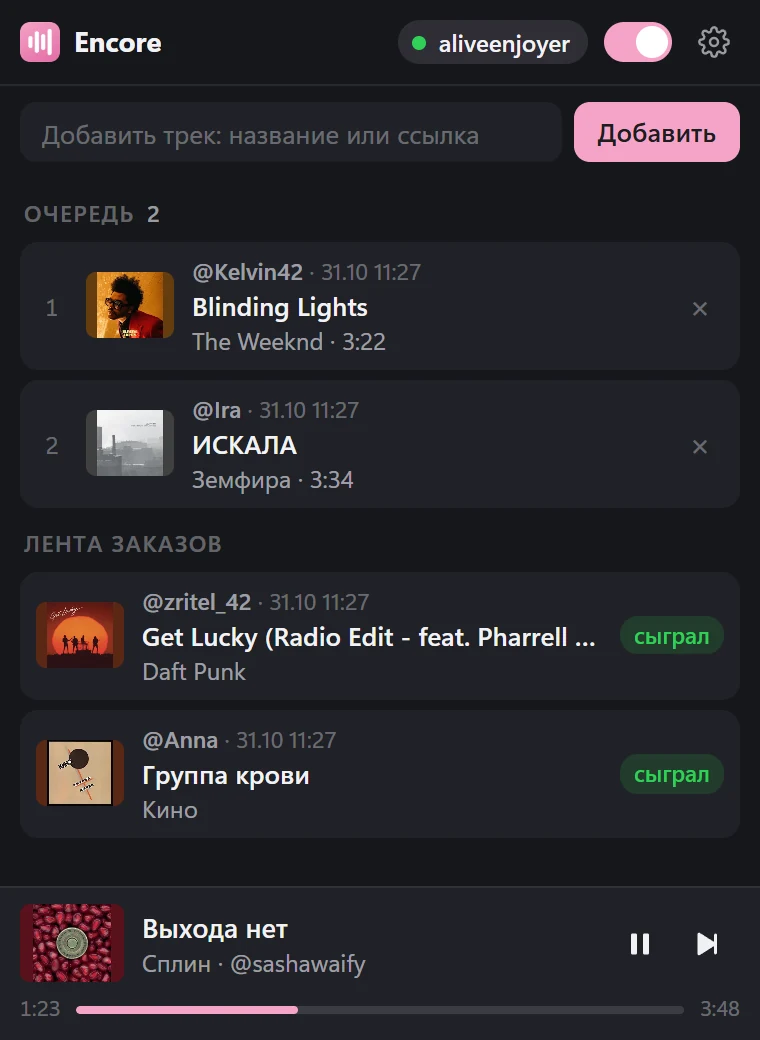
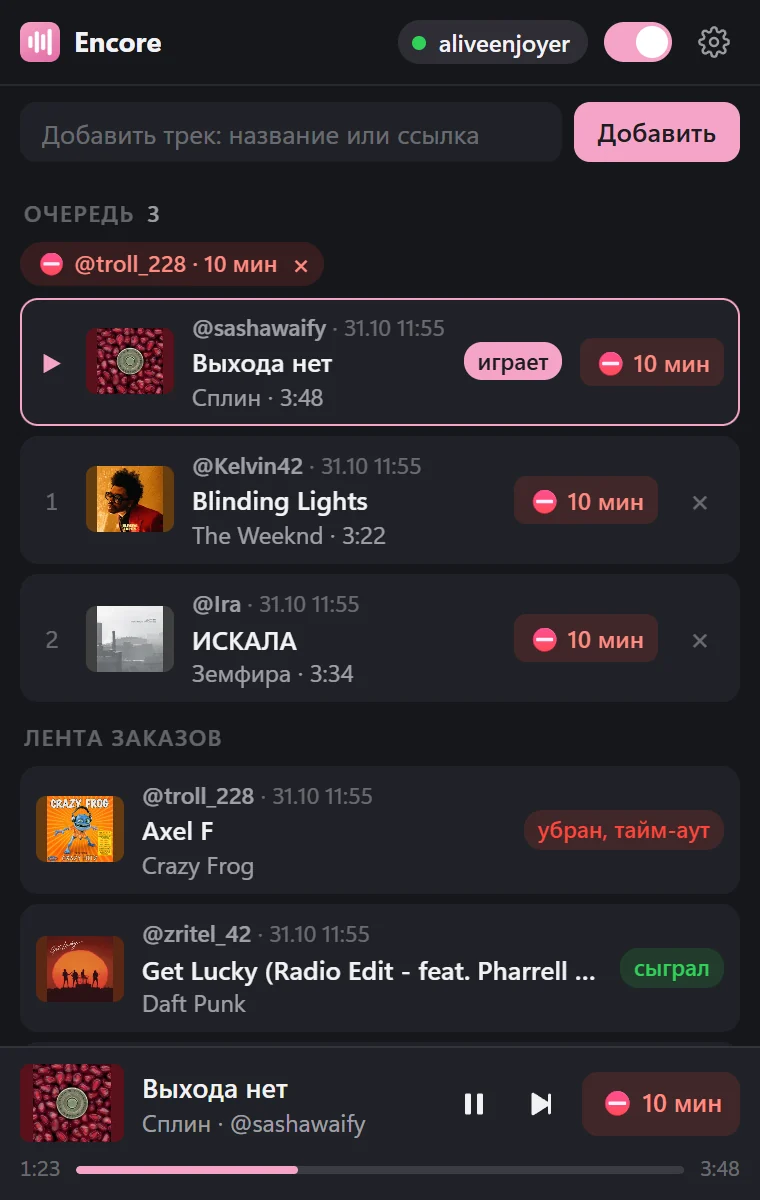
Сайт и README под 1.5.1: ⛔ в доке, настройки в доке, лимит на зрителя 30
⛔ рядом с треком убирает его и запрещает зрителю заказывать 10 минут.
Новый снимок дока снят с выпущенной 1.5.1.

diff --git a/docs/index.html b/docs/index.html
@@ -300,7 +300,7 @@ section { scroll-margin-top: 72px; }
         </div>
         <ul class="facts">
           <li>Зритель пишет название или кидает ссылку: YouTube, YouTube Music, Spotify, SoundCloud</li>
-          <li>Лимиты твои: длина трека, просмотры, сколько треков от одного зрителя, длина очереди и чёрный список слов</li>
+          <li>Лимиты твои: длина трека, просмотры, сколько треков от одного зрителя (по умолчанию 30, на тебя не действует), длина очереди и чёрный список слов</li>
           <li>Баллы спишутся, когда трек заиграет. Не подошёл, убран из очереди или не сыграл, и баллы вернутся сами</li>
           <li>Названия и цены наград меняешь в настройках</li>
         </ul>
@@ -311,21 +311,22 @@ section { scroll-margin-top: 72px; }
   <section class="block" id="dock" aria-labelledby="h-dock">
     <div class="head">
       <h2 id="h-dock">Заказы под рукой, прямо в&nbsp;OBS.</h2>
-      <p>Панель Encore встаёт в OBS рядом с чатом. Видно, что играет, кто что заказал и что ждёт в очереди.</p>
+      <p>Панель Encore встаёт в OBS рядом с чатом. Видно, что играет, кто что заказал и что ждёт в очереди. А если заказали ерунду, хватит одной кнопки.</p>
     </div>
     <div class="tile dockrow">
       <div>
         <ul class="facts">
-          <li>Убрал трек из очереди, и зрителю вернутся баллы</li>
-          <li>Пауза и пропуск трека, который играет</li>
-          <li>Лента прошлых заказов: что сыграло и что не подошло</li>
+          <li>⛔ рядом с треком: трек убирается, а этот зритель 10 минут не может заказывать. Баллы за мусор не вернутся</li>
+          <li>Кто в тайм-ауте, видно над очередью, крестик снимает раньше. Время меняешь в настройках</li>
+          <li>Убрал трек из очереди крестиком, и зрителю вернутся баллы</li>
+          <li>Пауза и пропуск трека, который играет, лента прошлых заказов</li>
           <li>Добавить трек самому, включить или выключить приём заказов</li>
-          <li>Статус Twitch и шестерёнка, которая открывает настройки</li>
+          <li>Шестерёнка открывает все настройки прямо в панели</li>
         </ul>
         <p class="how">«Док-панели» → «Пользовательские док-панели браузера» (Docks → Custom Browser Docks), адрес:</p>
         <span class="url"><code id="dockUrl2">http://localhost:7790/dock</code><button class="copy" type="button" data-copy="dockUrl2">Скопировать</button></span>
       </div>
-      <figure class="dock-shot"><img src="assets/dock.webp" width="760" height="1040" alt="Панель Encore в OBS: очередь из двух треков, лента сыгранных заказов и трек, который играет, с паузой и пропуском" loading="lazy"></figure>
+      <figure class="dock-shot"><img src="assets/dock.webp" width="760" height="1200" alt="Панель Encore в OBS: трек, который играет, и два в очереди, у каждого кнопка «⛔ 10 мин»; зритель troll_228 в тайм-ауте, его заказ Crazy Frog убран; внизу пауза, пропуск и ⛔" loading="lazy"></figure>
     </div>
   </section>
 
